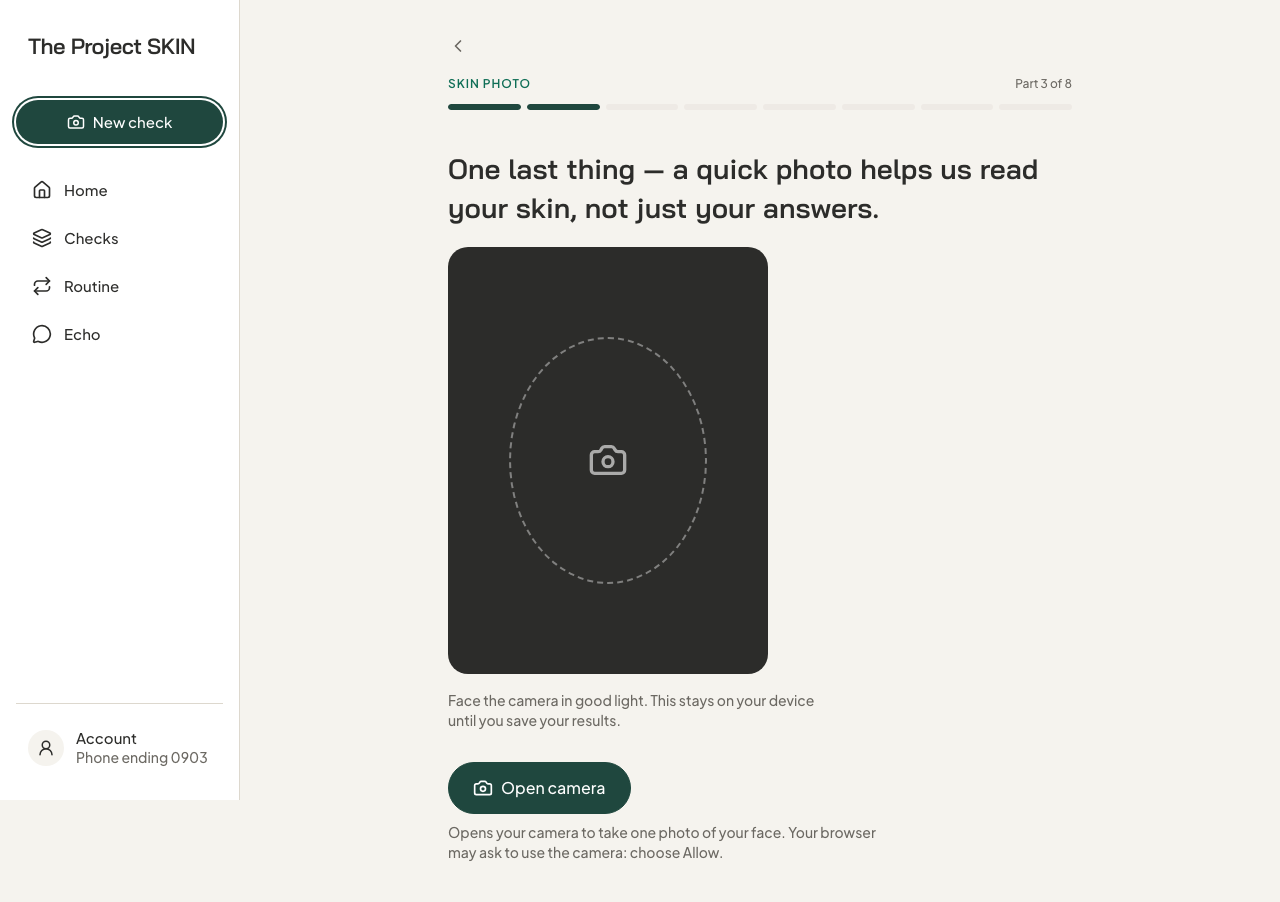
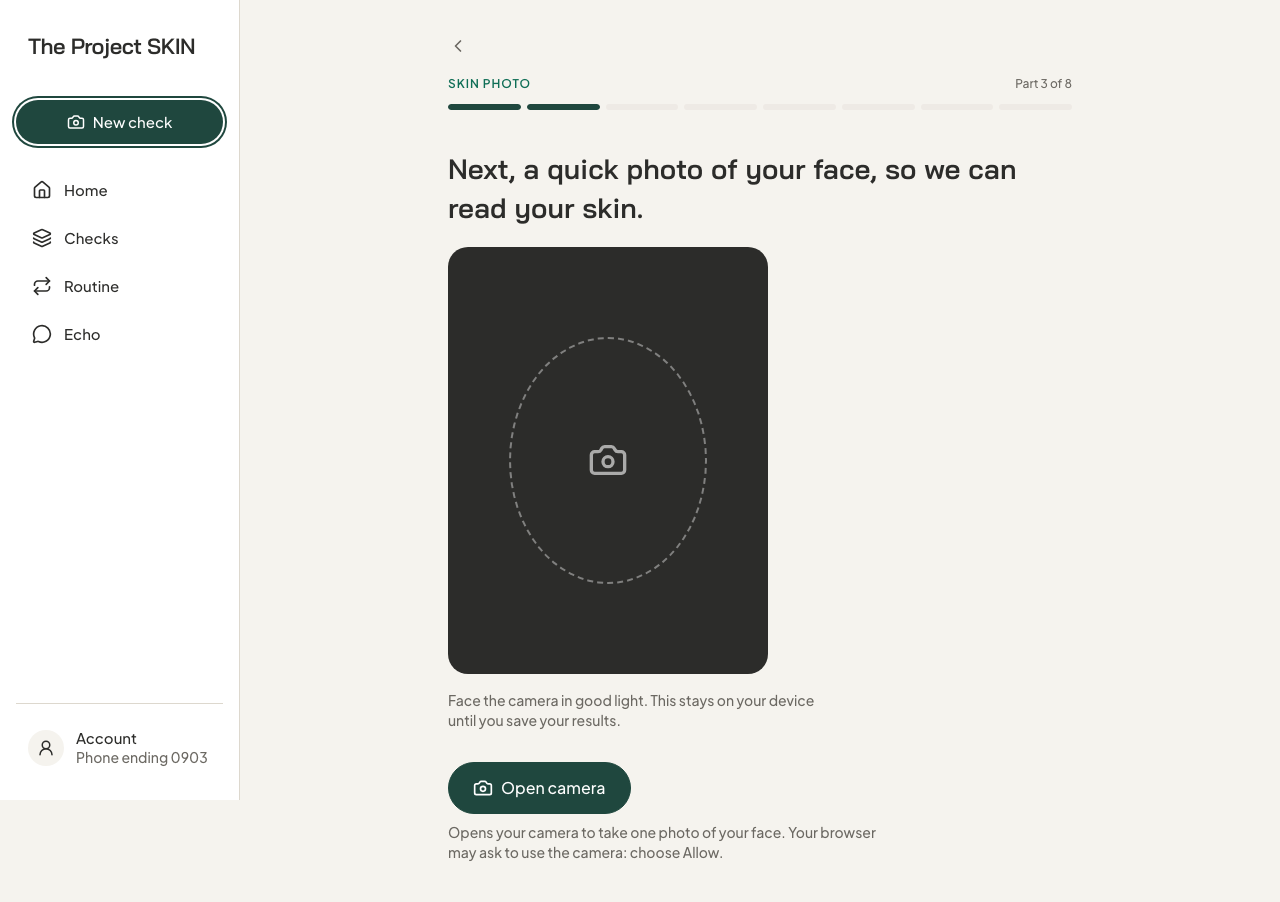
test(browser): laptop camera test takes Try again if Chrome's fake webcam fails to start; screenshots for the new copy

Changed region(s): [[0.3438, 0.1552, 0.8125, 0.2483]]

diff --git a/tests/browser/questionnaire.spec.ts b/tests/browser/questionnaire.spec.ts
@@ -98,6 +98,12 @@ for (const width of WIDTHS) {
         // Asked only now, from the button: the fake camera answers and the preview starts.
         await open.click();
         const take = page.getByRole("button", { name: K.take });
+        // Chrome's fake webcam sometimes fails to start the first time (seen
+        // 2026-10-10). The page then shows "Your camera didn't start" with Try
+        // again, and that recovery path is what a user would take.
+        const retry = page.getByRole("button", { name: K.tryAgain });
+        await expect(take.or(retry)).toBeVisible({ timeout: 30_000 });
+        if (await retry.isVisible()) await retry.click();
         await expect(take).toBeFocused({ timeout: 30_000 });
         await expect(page.getByText(K.ready)).toBeVisible();
         await shot(page, "capture-ready", width);
